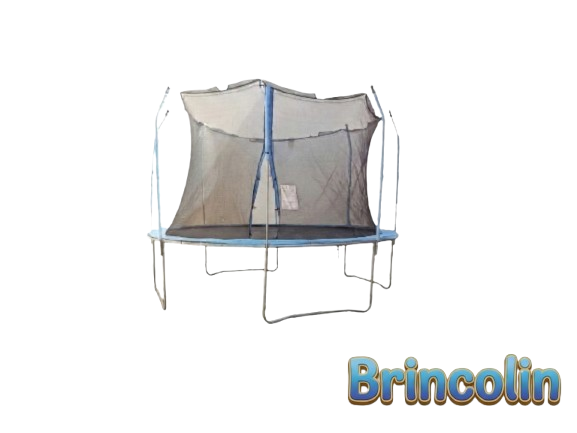
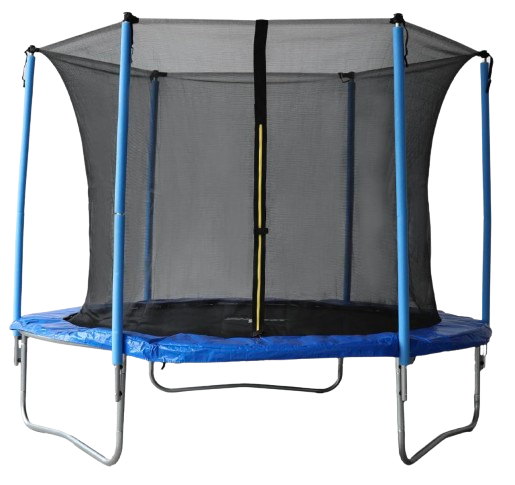
el dia jueves 12 de noviembre me comento la cliente que ya estas imagenes eran las ultimas imagenes a meter

diff --git a/resources/views/inflables.blade.php b/resources/views/inflables.blade.php
@@ -188,9 +188,15 @@
            <img src="assets/img/enGlobo/torosMecanicos.png" alt="Inflables 3x3" class="img-fluid" style="max-height: 300px; object-fit: contain;">
           </div>
             
-            <div class="col-6 col-md-4 offset-md-4">
+            <div class="col-6 col-md-4 offset-md-2">
               <a href="assets/img/enGlobo/inflables1/i24.png" class="glightbox" data-gallery="portfolio-gallery">
                 <img src="assets/img/enGlobo/inflables1/i24.png" alt="Inflable vista 3" class="img-fluid rounded shadow-sm" style="width: 100%; height: 280px; object-fit: cover;">
+              </a>
+            </div>
+
+            <div class="col-6 col-md-4">
+              <a href="assets/img/enGlobo/inflables1/i8.png" class="glightbox" data-gallery="portfolio-gallery">
+                <img src="assets/img/enGlobo/inflables1/i8.png" alt="Inflable vista 3" class="img-fluid rounded shadow-sm" style="width: 100%; height: 280px; object-fit: cover;">
               </a>
             </div>
         </div>
